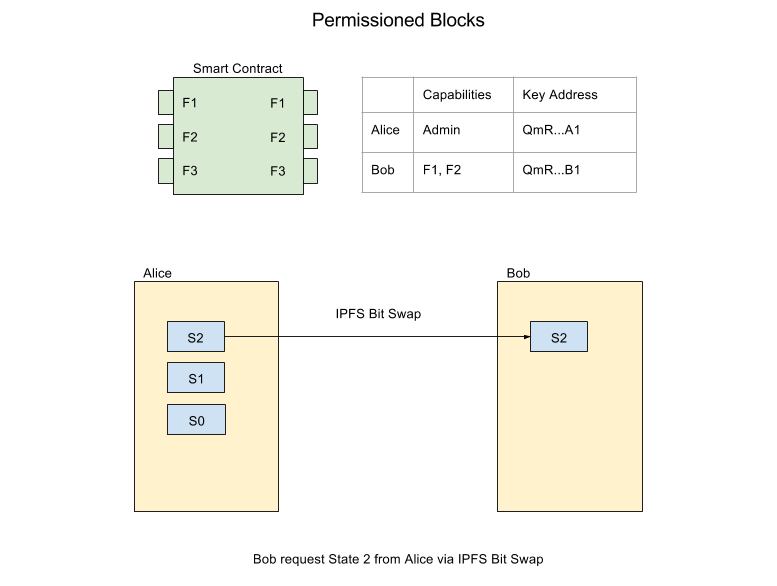
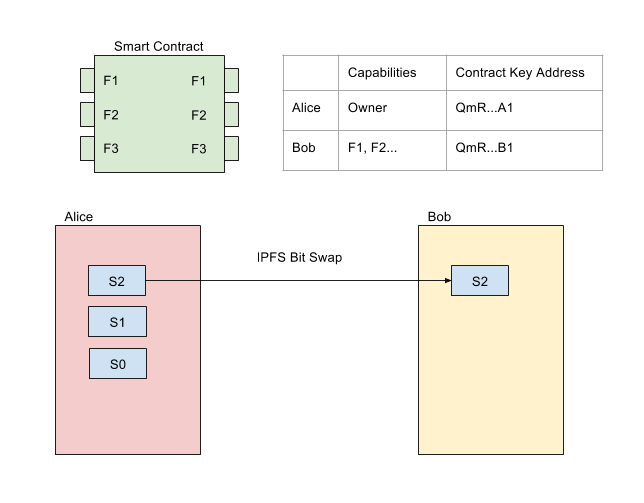
update

Changed region(s): [[0.0621, 0.4175, 0.9006, 0.9841], [0.1242, 0.0895, 0.9006, 0.3579], [0.4037, 0.0, 0.6211, 0.0596]]

diff --git a/whitepaper.md b/whitepaper.md
@@ -42,6 +42,6 @@ Note: A naive approach would be simply to encrypt the State Chain and publish th
 <p align="center">
 <img src="/images/permissioned-blocks-capabilities.png">
 <br>
-<b>Permissioned Blocks</b> - Bob requests the state S2 from Alice via IPFS Bit Swap. Alice checks Bob's access capabilities for whether he is permitted to receive this information, and then encrypts using Bob's public key and sends.
+<b>Permissioned Blocks</b> - Bob requests the state S2 from Alice via IPFS Bit Swap. Alice checks Bob's capabilities to verify that he is permitted to receive the data and then sends. Bob decrypts the data using his contract key. 
 </p>
 
